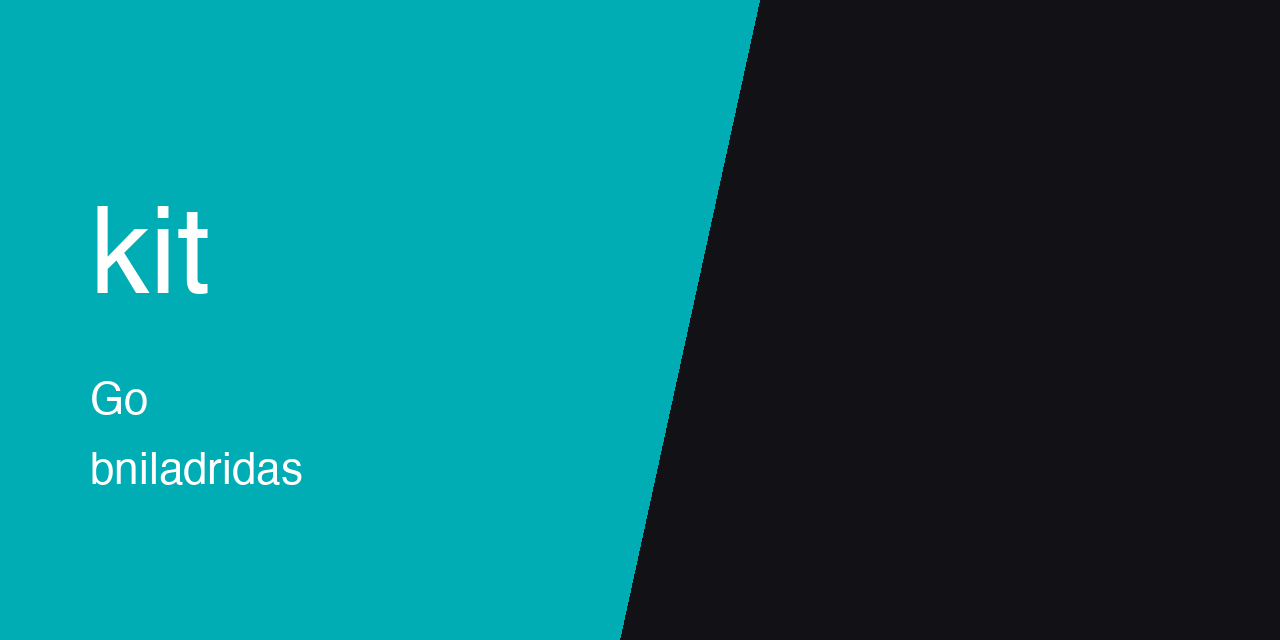
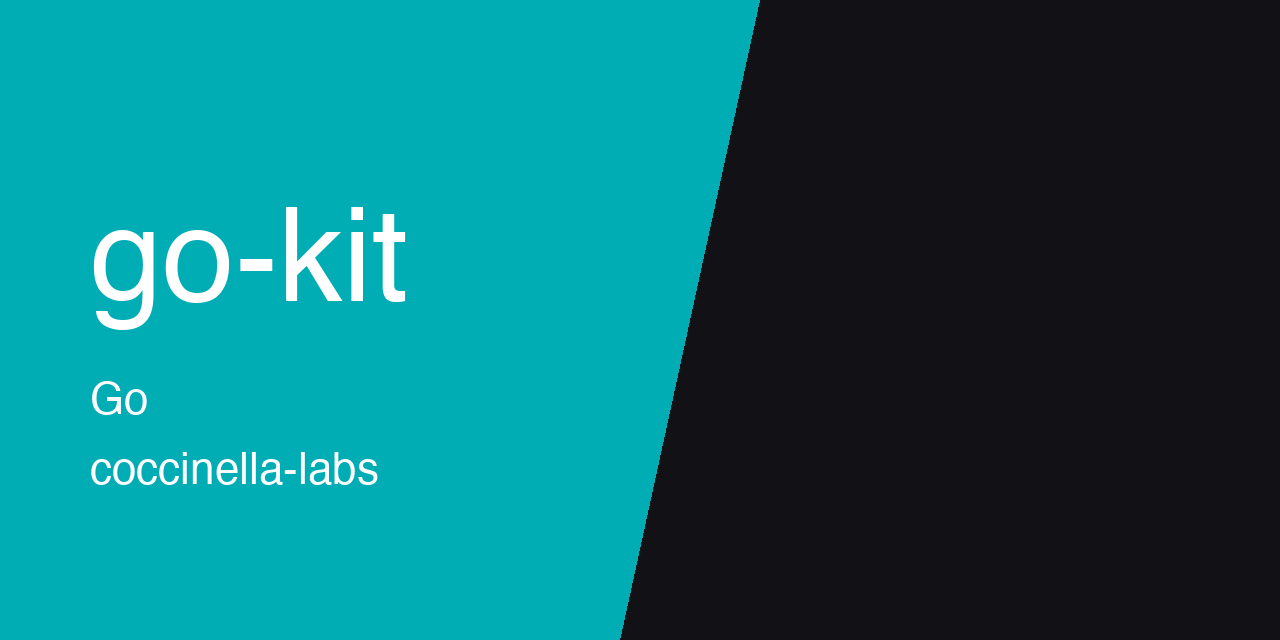
[docs] move thumbnail to coccinella-labs

Changed region(s): [[0.0625, 0.3125, 0.3125, 0.5312], [0.0625, 0.6875, 0.3125, 0.7812]]

diff --git a/README.md b/README.md
@@ -1,4 +1,8 @@
 <p align="center">
+  <img src="https://raw.githubusercontent.com/Coccinella-Labs/go-kit/main/.github/assets/thumbnail.png" alt="go-kit" width="100%">
+</p>
+
+<p align="center">
   <img src="https://raw.githubusercontent.com/bniladridas/kit/main/.github/assets/thumbnail.png" alt="kit" width="100%">
 </p>
 
